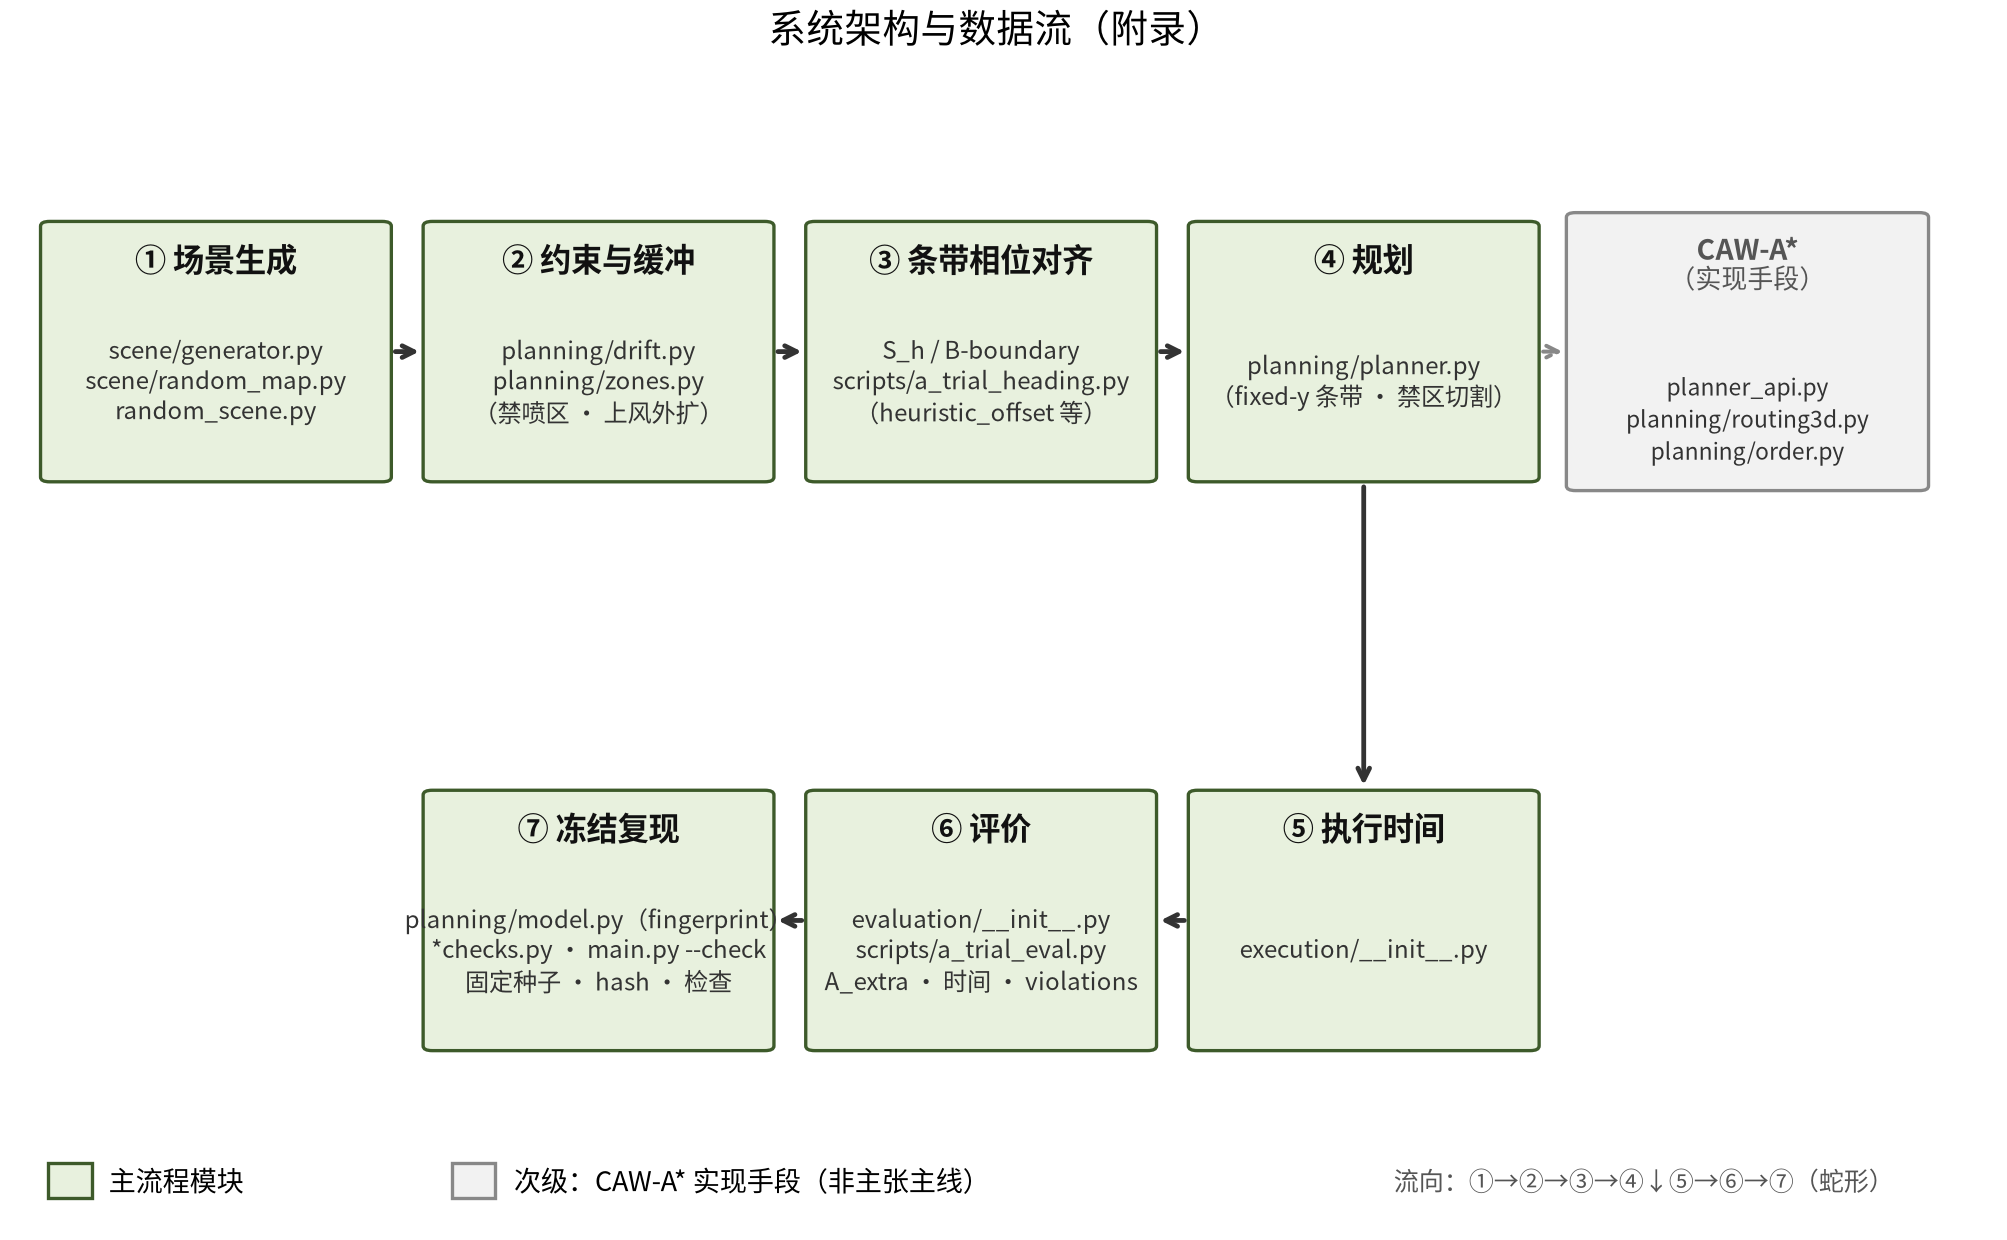
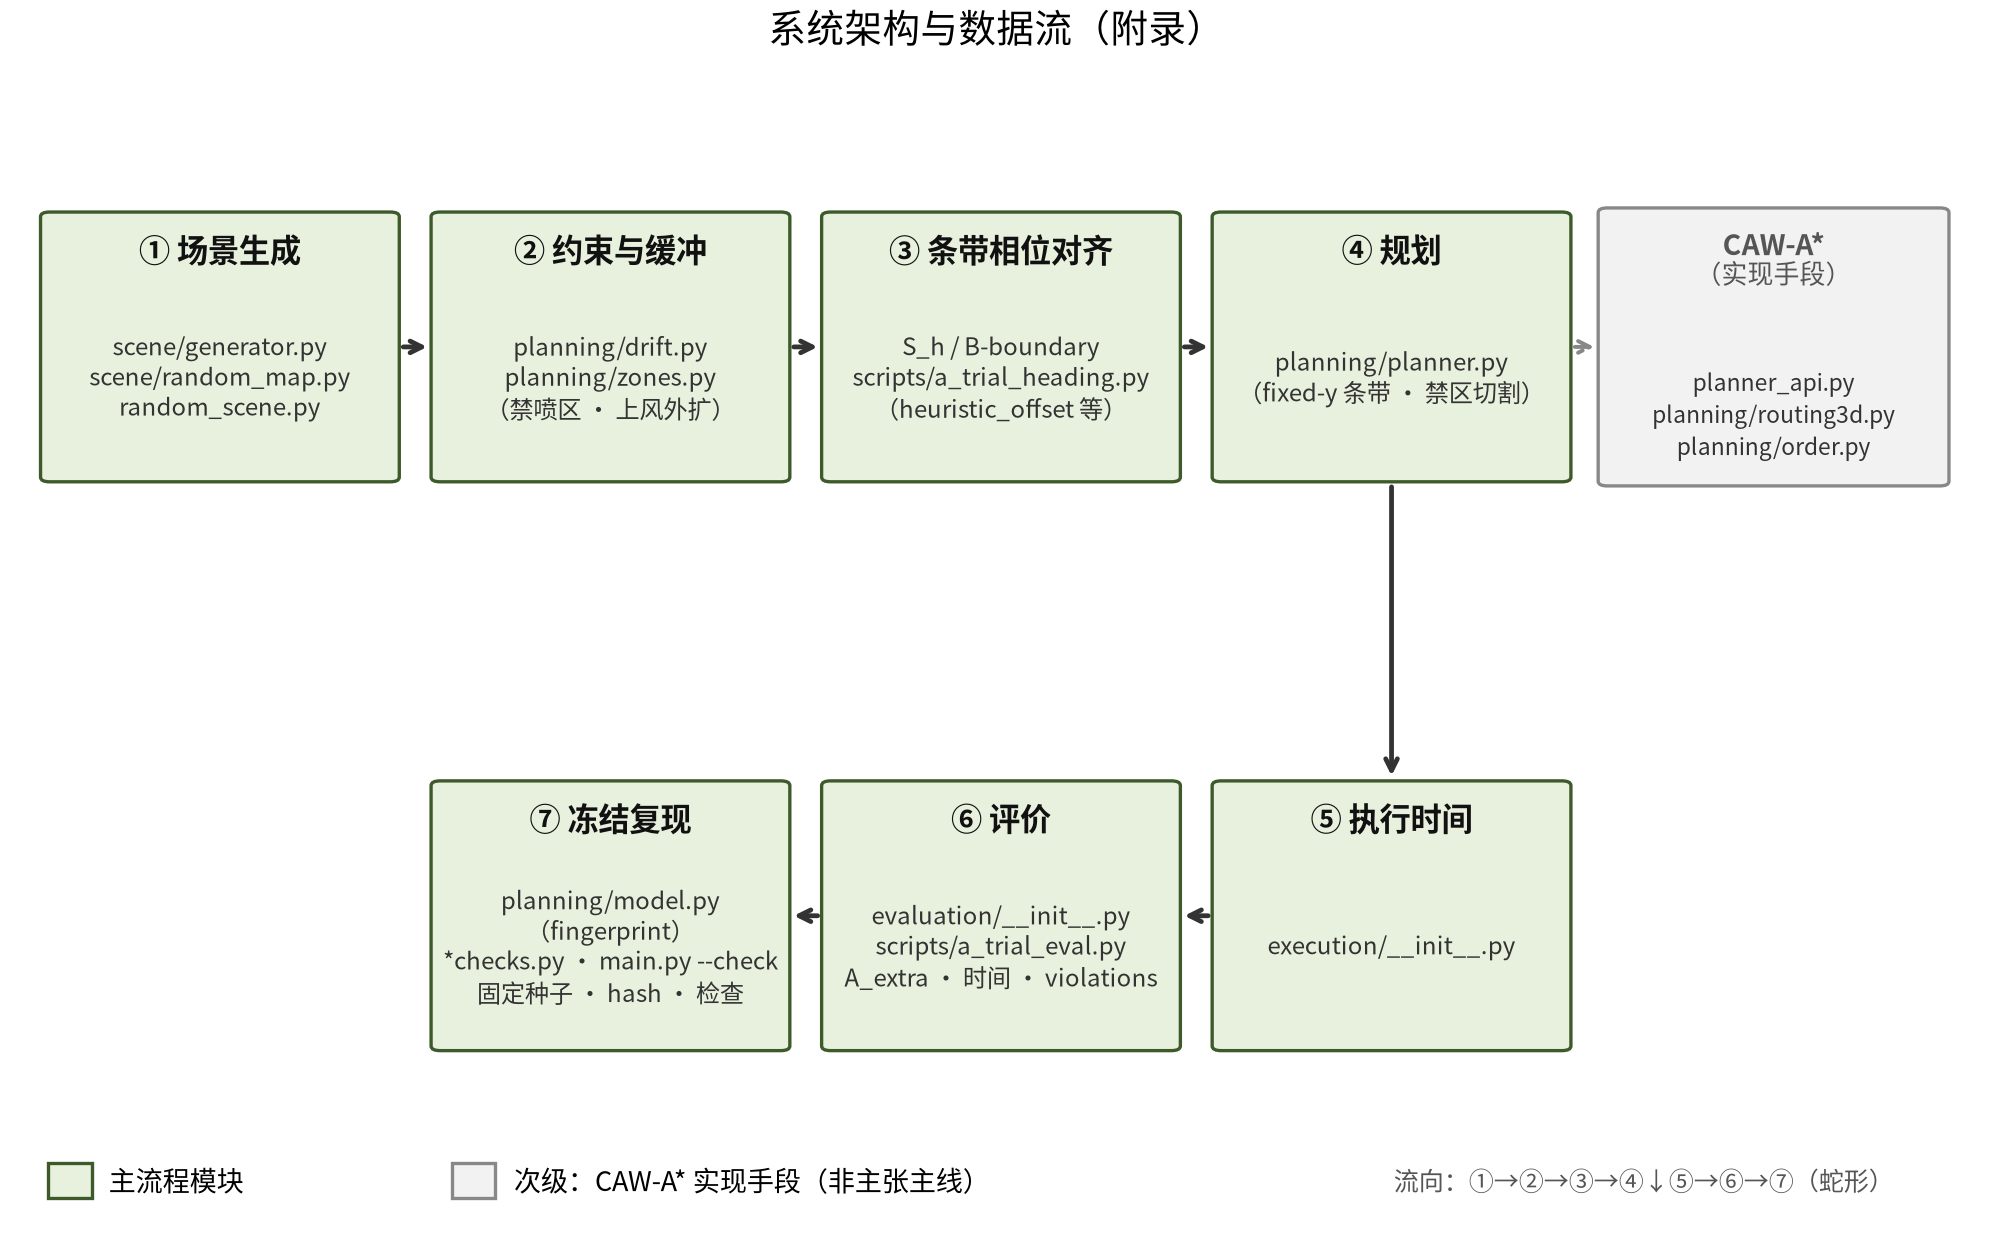
figs: 图B ⑦框 planning/model.py（fingerprint）拆行，略加宽主框防溢出

Changed region(s): [[0.0, 0.1532, 0.9885, 0.3984], [0.1854, 0.3984, 0.8032, 0.8581]]

diff --git a/scripts/figB_system_architecture.py b/scripts/figB_system_architecture.py
@@ -104,7 +104,7 @@ NODES = [
     dict(
         key="freeze",
         title="⑦ 冻结复现",
-        code="planning/model.py（fingerprint）\n*checks.py · main.py --check\n固定种子 · hash · 检查",
+        code="planning/model.py\n（fingerprint）\n*checks.py · main.py --check\n固定种子 · hash · 检查",
         primary=True,
     ),
 ]
@@ -158,7 +158,7 @@ def main():
     ax.axis("off")
     ax.set_title("系统架构与数据流（附录）", fontsize=9, pad=4)
 
-    box_w, box_h = 3.05, 2.20
+    box_w, box_h = 3.12, 2.28
     gap = 0.32
     top_y = 6.40
     bot_y = 1.55
@@ -176,7 +176,7 @@ def main():
     # CAW to the RIGHT of ④, short dashed link into its left side.
     plan = next(n for n in NODES if n["key"] == "plan")
     s = plan["secondary"]
-    caw_w, caw_h = 3.15, 2.35
+    caw_w, caw_h = 3.05, 2.35
     caw_gap = 0.28
     caw_x = xs_top[3] + box_w + caw_gap
     caw_y = top_y + (box_h - caw_h) / 2

diff --git a/results/figB_system_architecture.caption.md b/results/figB_system_architecture.caption.md
@@ -2,4 +2,4 @@
 
 Fig. B System architecture and data flow (appendix). Snake layout: ① scene generation → ② constraints & buffer → ③ strip phase alignment (S_h or B) → ④ planning, then down to ⑤ execution time, then right-to-left ⑥ evaluation (A_extra, time, violations) → ⑦ frozen reproduction. The grey CAW-A* box sits to the right of ④ as an implementation means only. Module labels cite code paths per ARCHITECTURE.md. Generated by script; no planning was run.
 
-脚本 / Script: scripts/figB_system_architecture.py; commit 5d0e7d3b0b0d460036e70dcff58d39f15854306d.
+脚本 / Script: scripts/figB_system_architecture.py; commit 328876a360a39511db07f46cf9047559c79b064d.
